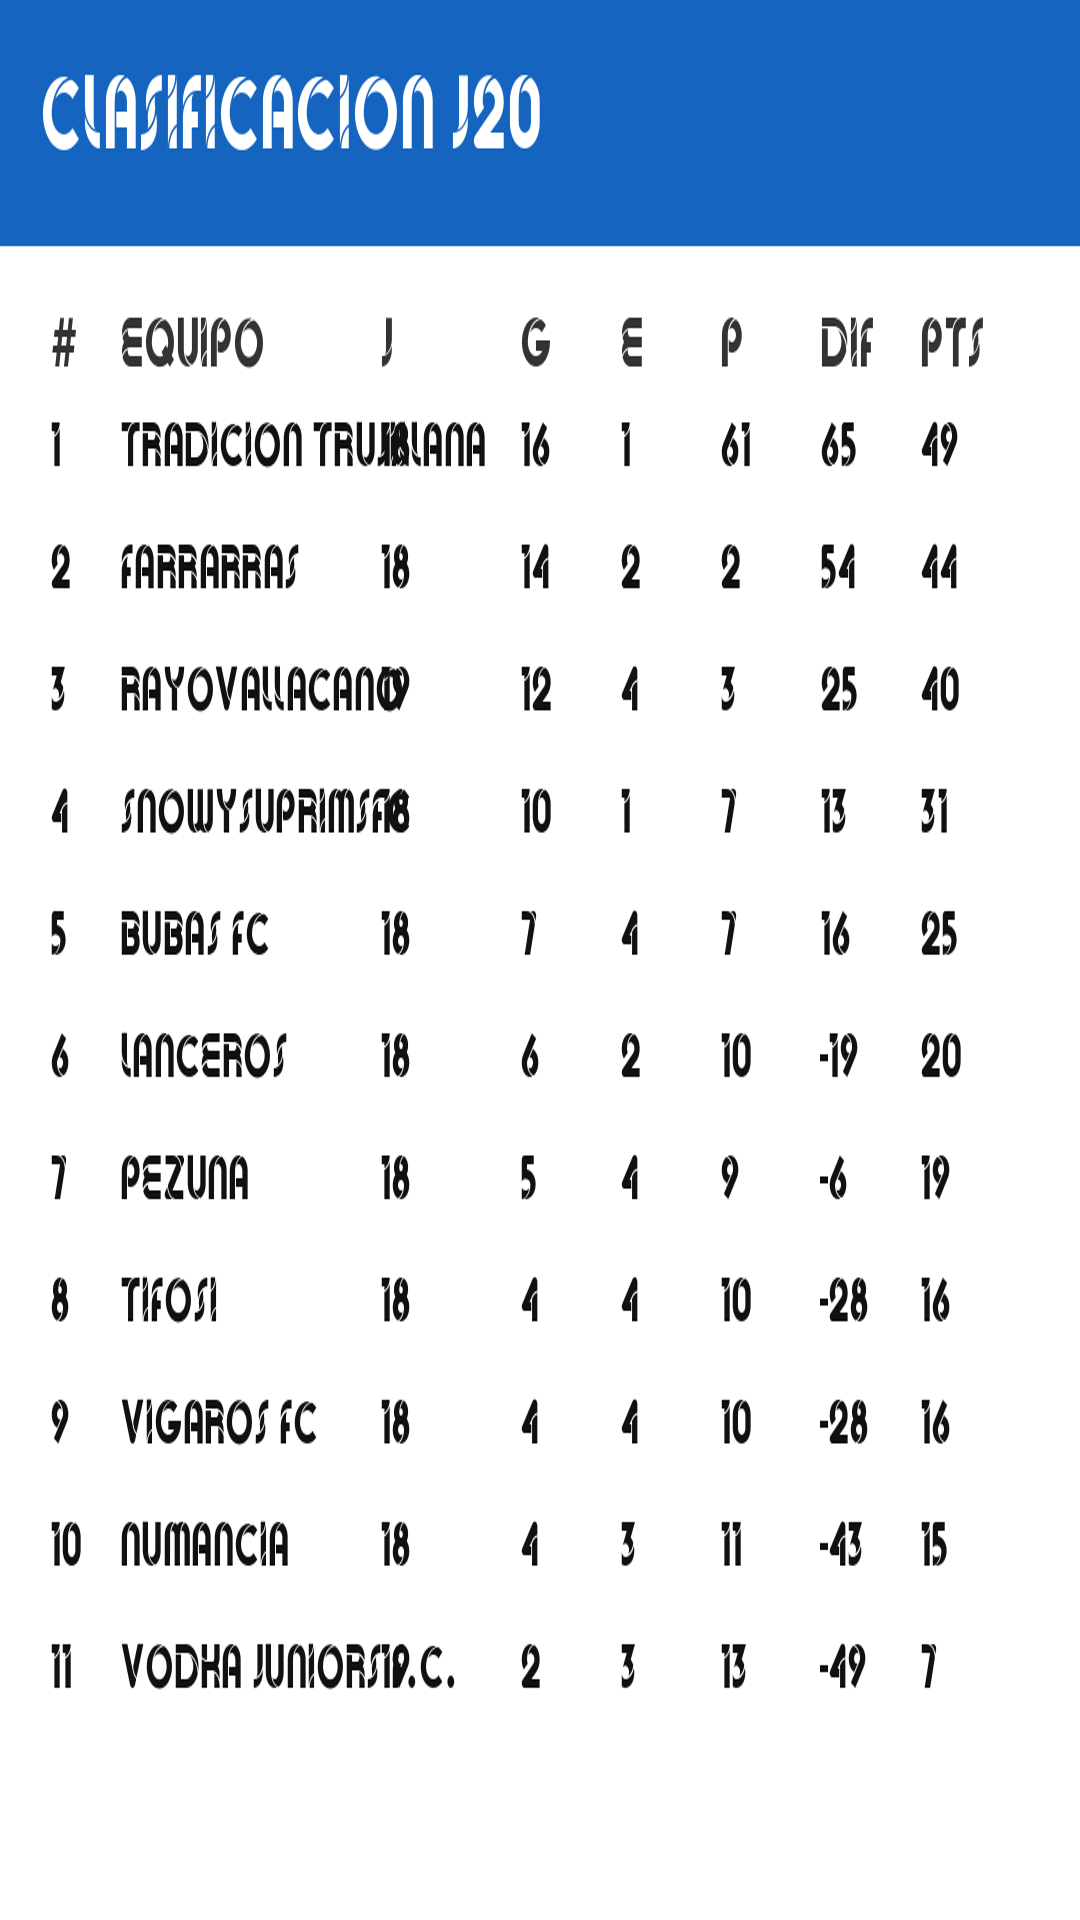
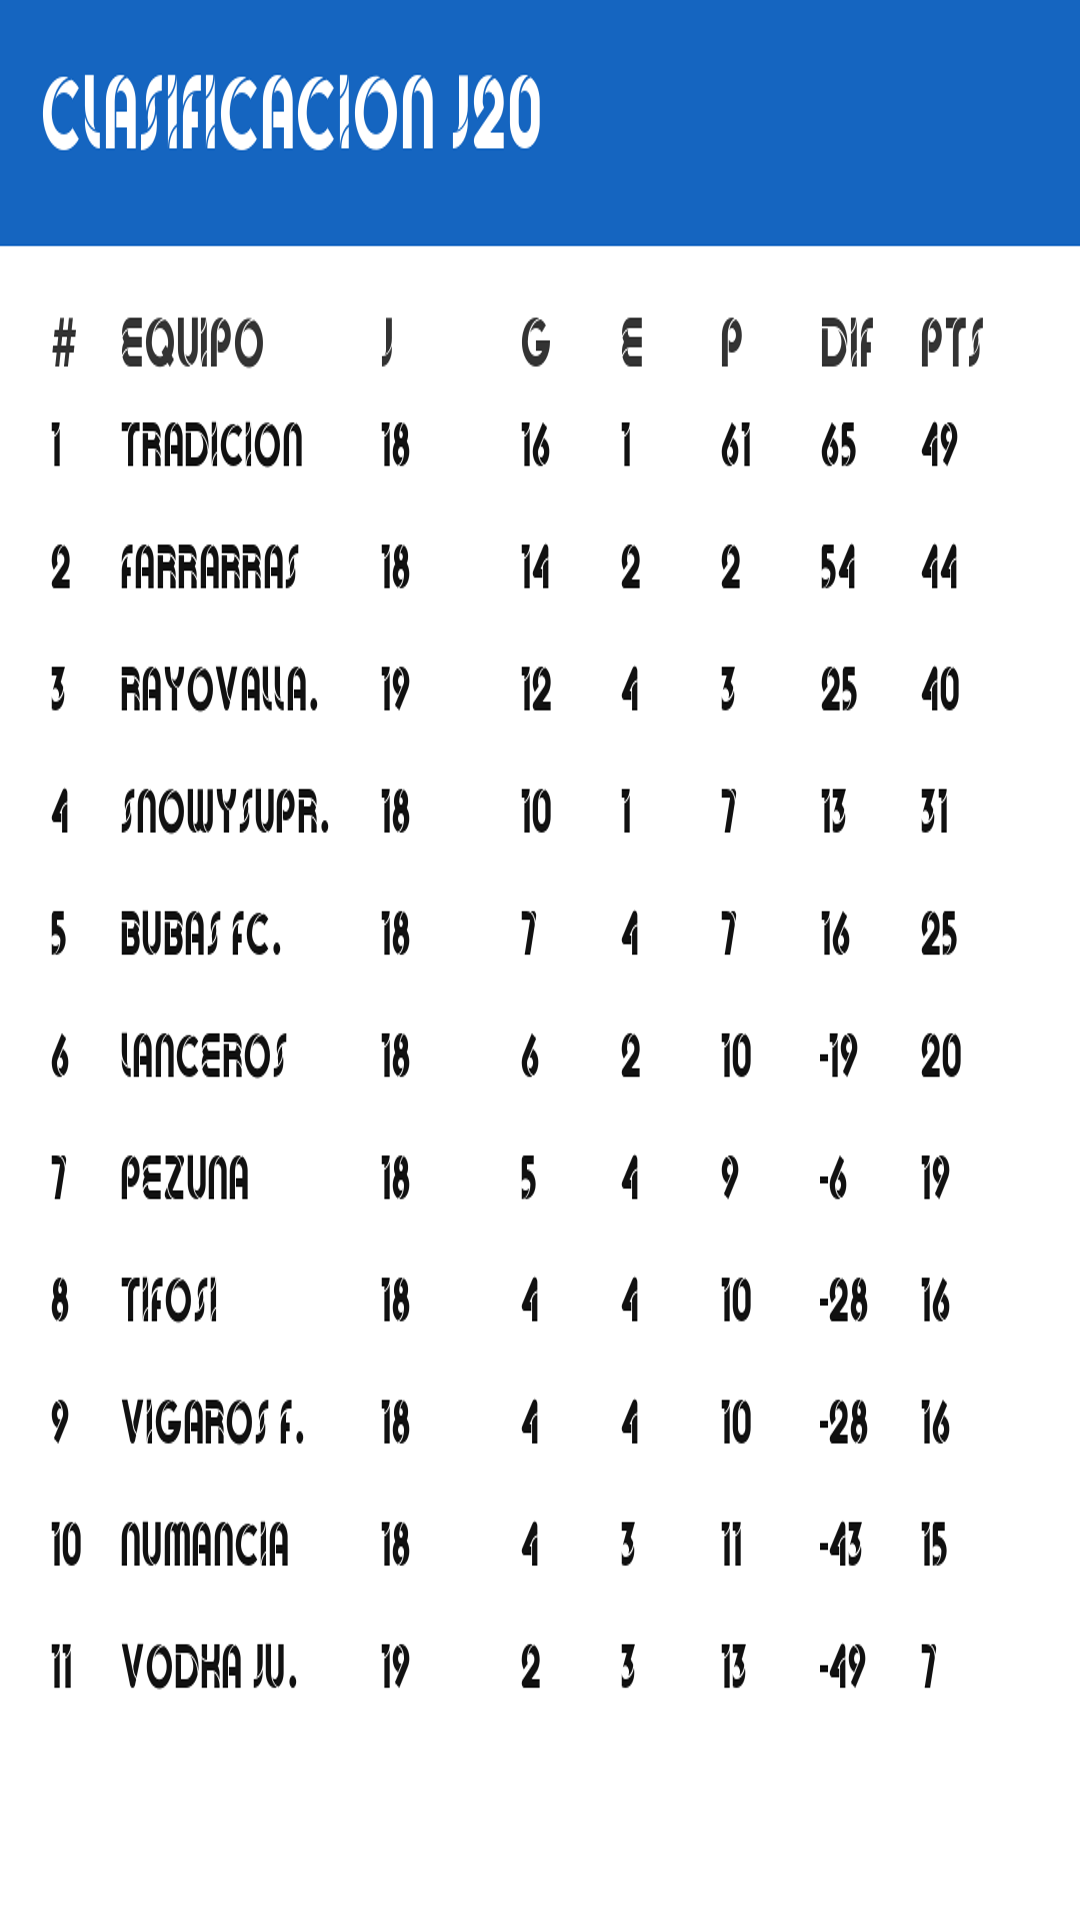
Tabla base con abreviaciones

diff --git a/index.html b/index.html
@@ -139,11 +139,19 @@ async function cargarDatos(){
 
     function abbreviateTeam(name) {
       let parts = name.trim().split(/\s+/).filter(Boolean);
-      if (parts.length <= 1) return name;
-      let second = parts[1].replace(/[^A-Za-zÁÉÍÓÚÜÑáéíóúüñ0-9]/g, '');
-      second = second.slice(0, 2);
-      if (!second) return parts[0];
-      return `${parts[0]} ${second}.`;
+      if (parts.length === 0) return name;
+      let short = parts[0];
+      if (parts.length > 1) {
+        let second = parts[1].replace(/[^-\p{L}\p{N}]/gu, '');
+        second = second.slice(0, 2);
+        if (second) {
+          short = `${parts[0]} ${second}.`;
+        }
+      }
+      if (short.length <= 10) return short;
+      let truncated = short.slice(0, 9);
+      if (truncated.endsWith(' ') || (short.length > 9 && short[9] === ' ')) return truncated.trimEnd();
+      return truncated + '.';
     }
 
     clas.forEach((e,i)=>{

diff --git a/image_generator.py b/image_generator.py
@@ -14,12 +14,19 @@ def normalize_text(texto):
 
 def abbreviate_team(name):
     parts = name.strip().split()
-    if len(parts) <= 1:
+    if not parts:
         return name
-    second = ''.join(ch for ch in parts[1] if ch.isalnum())[:2]
-    if not second:
-        return parts[0]
-    return f"{parts[0]} {second}."
+    if len(parts) == 1:
+        short = parts[0]
+    else:
+        second = ''.join(ch for ch in parts[1] if ch.isalnum())[:2]
+        short = f"{parts[0]} {second}." if second else parts[0]
+    if len(short) <= 10:
+        return short
+    truncated = short[:9]
+    if truncated.endswith(' ') or (len(short) > 9 and short[9] == ' '):
+        return truncated.rstrip()
+    return truncated + '.'
 
 # =========================
 # FUNCIONES DE CENTRADO
